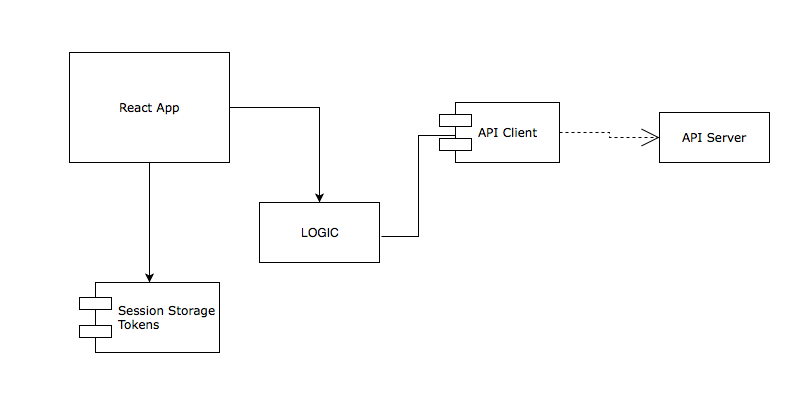
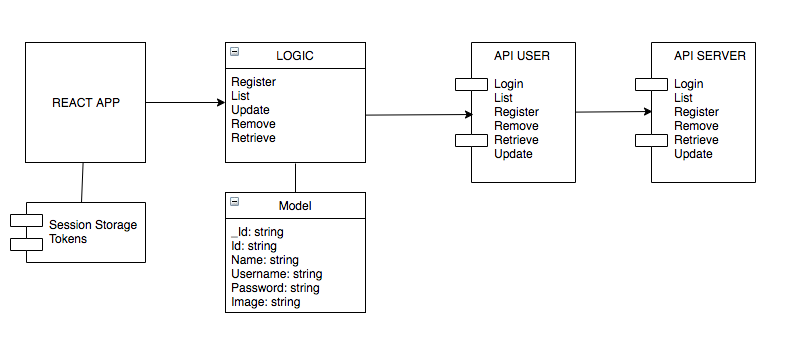
New Readme

diff --git a/whitebalance/src/components/messages/index.js b/whitebalance/src/components/messages/index.js
@@ -1,0 +1,46 @@
+import React from 'react'
+
+class Modal extends Component {
+
+render() {
+    return (
+
+    <button type="button" className="btn btn-primary" data-toggle="modal" data-target="#modalYT">Launch modal</button>
+
+
+    <div className="modal fade" id="modalYT" tabindex="-1" role="dialog" aria-labelledby="myModalLabel" aria-hidden="true">
+        <div className="modal-dialog modal-lg" role="document">
+
+
+            <div className="modal-content">
+
+
+                <div className="modal-body mb-0 p-0">
+
+                    <div className="embed-responsive embed-responsive-16by9 z-depth-1-half">
+                        <iframe className="embed-responsive-item" src="https://www.youtube.com/embed/A3PDXmYoF5U" allowfullscreen></iframe>
+                    </div>
+
+                </div>
+
+
+                <div className="modal-footer justify-content-center flex-column flex-md-row">
+                    <span className="mr-4">Spread the word!</span>
+                    <div>
+
+                    </div>
+                    <button type="button" className="btn btn-outline-primary btn-rounded btn-md ml-4" data-dismiss="modal">Close</button>
+
+
+                </div>
+
+            </div>
+
+
+        </div>
+    </div>
+    )
+}       
+}
+
+export default Modal

diff --git a/whitebalance/src/components/header/index.js b/whitebalance/src/components/header/index.js
@@ -22,7 +22,7 @@ class Header extends Component {
                             <a class="nav-link" href="#"><i class="fas fa-cloud-upload-alt"></i></a>
                         </li>
                         <li class="nav-item active">
-                            <a class="nav-link" href="#"><i class="far fa-bell"></i><span class="badge badge-light">4</span></a>
+                            <a class="nav-link" href="#"><i class="far fa-bell"></i><span class="badge">4</span></a>
                         </li>
                         <li class="nav-item dropdown">
                             <a class="nav-link dropdown-toggle" href="#" id="navbarDropdown" role="button" data-toggle="dropdown" aria-haspopup="true" aria-expanded="false">

diff --git a/whitebalance/src/components/header/styles/main.css b/whitebalance/src/components/header/styles/main.css
@@ -7,3 +7,12 @@
     background-image: linear-gradient(180deg,rgba(0,0,0,0.00) 0%,rgba(0,0,0,0.00) 100%);
 }
 
+span {
+ -webkit-box-shadow: 0px 0px;
+    box-shadow: 0px 0px;
+    background-color: rgba(0,0,0,0.0);
+    background-image: -webkit-gradient(linear, 50.00% 0.00%, 50.00% 100.00%, color-stop( 0% , rgba(0,0,0,0.00)),color-stop( 100% , rgba(0,0,0,0.00)));
+    background-image: -webkit-linear-gradient(270deg,rgba(0,0,0,0.00) 0%,rgba(0,0,0,0.00) 100%);
+    background-image: linear-gradient(180deg,rgba(0,0,0,0.00) 0%,rgba(0,0,0,0.00) 100%); 
+}
+

diff --git a/README.md b/README.md
@@ -12,8 +12,9 @@ Here you have the opportunity to show your **passion.**
 
 ## PREWORK
 
-- ![alt text](docs/DataModel.png "DATA MODEL")
+- ![alt text](docs/Data.png "DATA MODEL")
 - ![alt text](docs/UML.png "UML")
+- ![alt text](docs/Flow.png "UML")
 - ![alt text](docs/SpringPlan.png "SPRING PLAN")
 
 - WhiteBalance (https://github.com/AlexGonRod/WhiteBalance)
